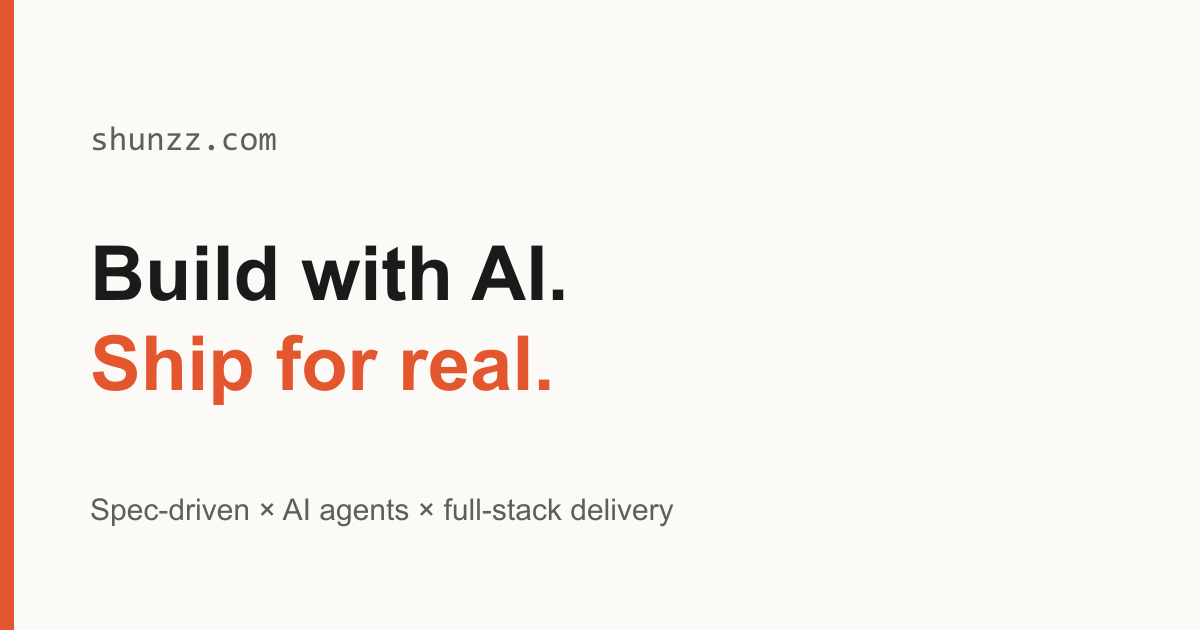
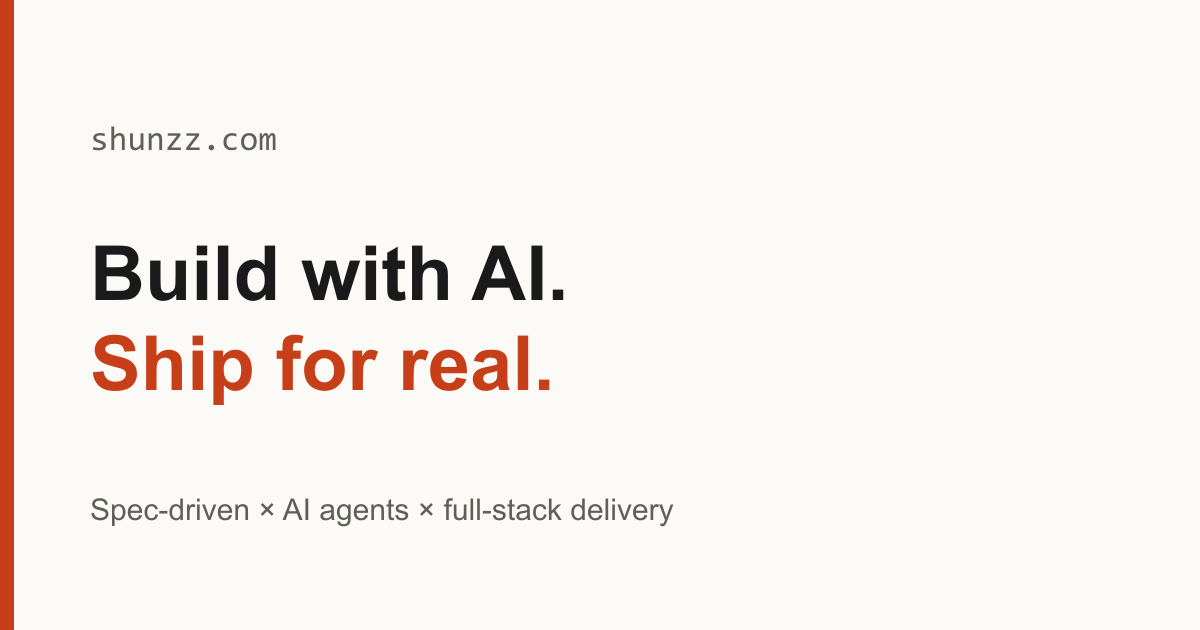
feat(profile): OG image, README deploy docs; lighthouse pass
- Regenerate apps/profile/public/og.png (1200x630) with profile copy
- Regenerate apps/brand/public/og.png too: gen-og's accent color changed
  since brand's last og.png was produced, so brand's image was stale
  (controller ruling, Task 1)
- dist.test.mjs: add sitemap/robots/og assertion (RED confirmed by
  deleting og.png first, then GREEN after `npm run og -w apps/profile`)
- README: apps/profile status -> v1; Deploy section gets the
  shunzz-profile Cloudflare Pages project, cross-site nav/footer link
  note, and npm run dev:profile

Lighthouse (mobile, headless Chrome), apps/profile preview build:
  path   perf  a11y  best-practices  seo
  /      98    100   100             100
  /en/   98    100   100             100
All four categories >= 95 on both pages; no CSS/markup fixes needed.
Remaining perf headroom is unminified/unused CSS from the shared UI
package (not addressed, out of scope: no dependency/tooling changes).

npm run build && npm test && npm run check: all green
(brand 21 tests, profile 9 tests; astro check 0 errors/0 warnings on
both apps, 1 pre-existing hint in shared Seo.astro unrelated to this
change).

Changed region(s): [[0.0617, 0.5127, 0.4625, 0.6333], [0.0, 0.0, 0.0308, 1.0]]

diff --git a/README.md b/README.md
@@ -5,7 +5,7 @@ npm workspaces monorepo.
 | app | domain | status |
 |---|---|---|
 | `apps/brand` | shunzz.com | v1 |
-| `apps/profile` | profile.shunzz.com | planned |
+| `apps/profile` | profile.shunzz.com | v1 |
 | `packages/ui` | shared tokens / layout / SEO | — |
 
 ## Dev
@@ -32,3 +32,6 @@ CI / Cloudflare Pages:改用環境變數 `FORBIDDEN_TERMS`(逗號分隔)。
 - Project `shunzz-brand`:Build command `npm run build`,Build output `apps/brand/dist`,Root directory `/`,Node 24(`NODE_VERSION=24`)。
 - Custom domains:`shunzz.com`(+ `www` → 301 到 apex)。
 - OG 圖:`npm run og -w apps/brand` 重新產生 `public/og.png`。
+- Project `shunzz-profile`:Build command `npm run build -w apps/profile`,Build output `apps/profile/dist`,Root directory `/`,`NODE_VERSION=24`,`FORBIDDEN_TERMS`。Custom domain `profile.shunzz.com`。
+- 兩站互連:brand nav「專業履歷版」→ profile;profile nav/footer → shunzz.com。
+- `npm run dev:profile` 本機開發 profile 站。
